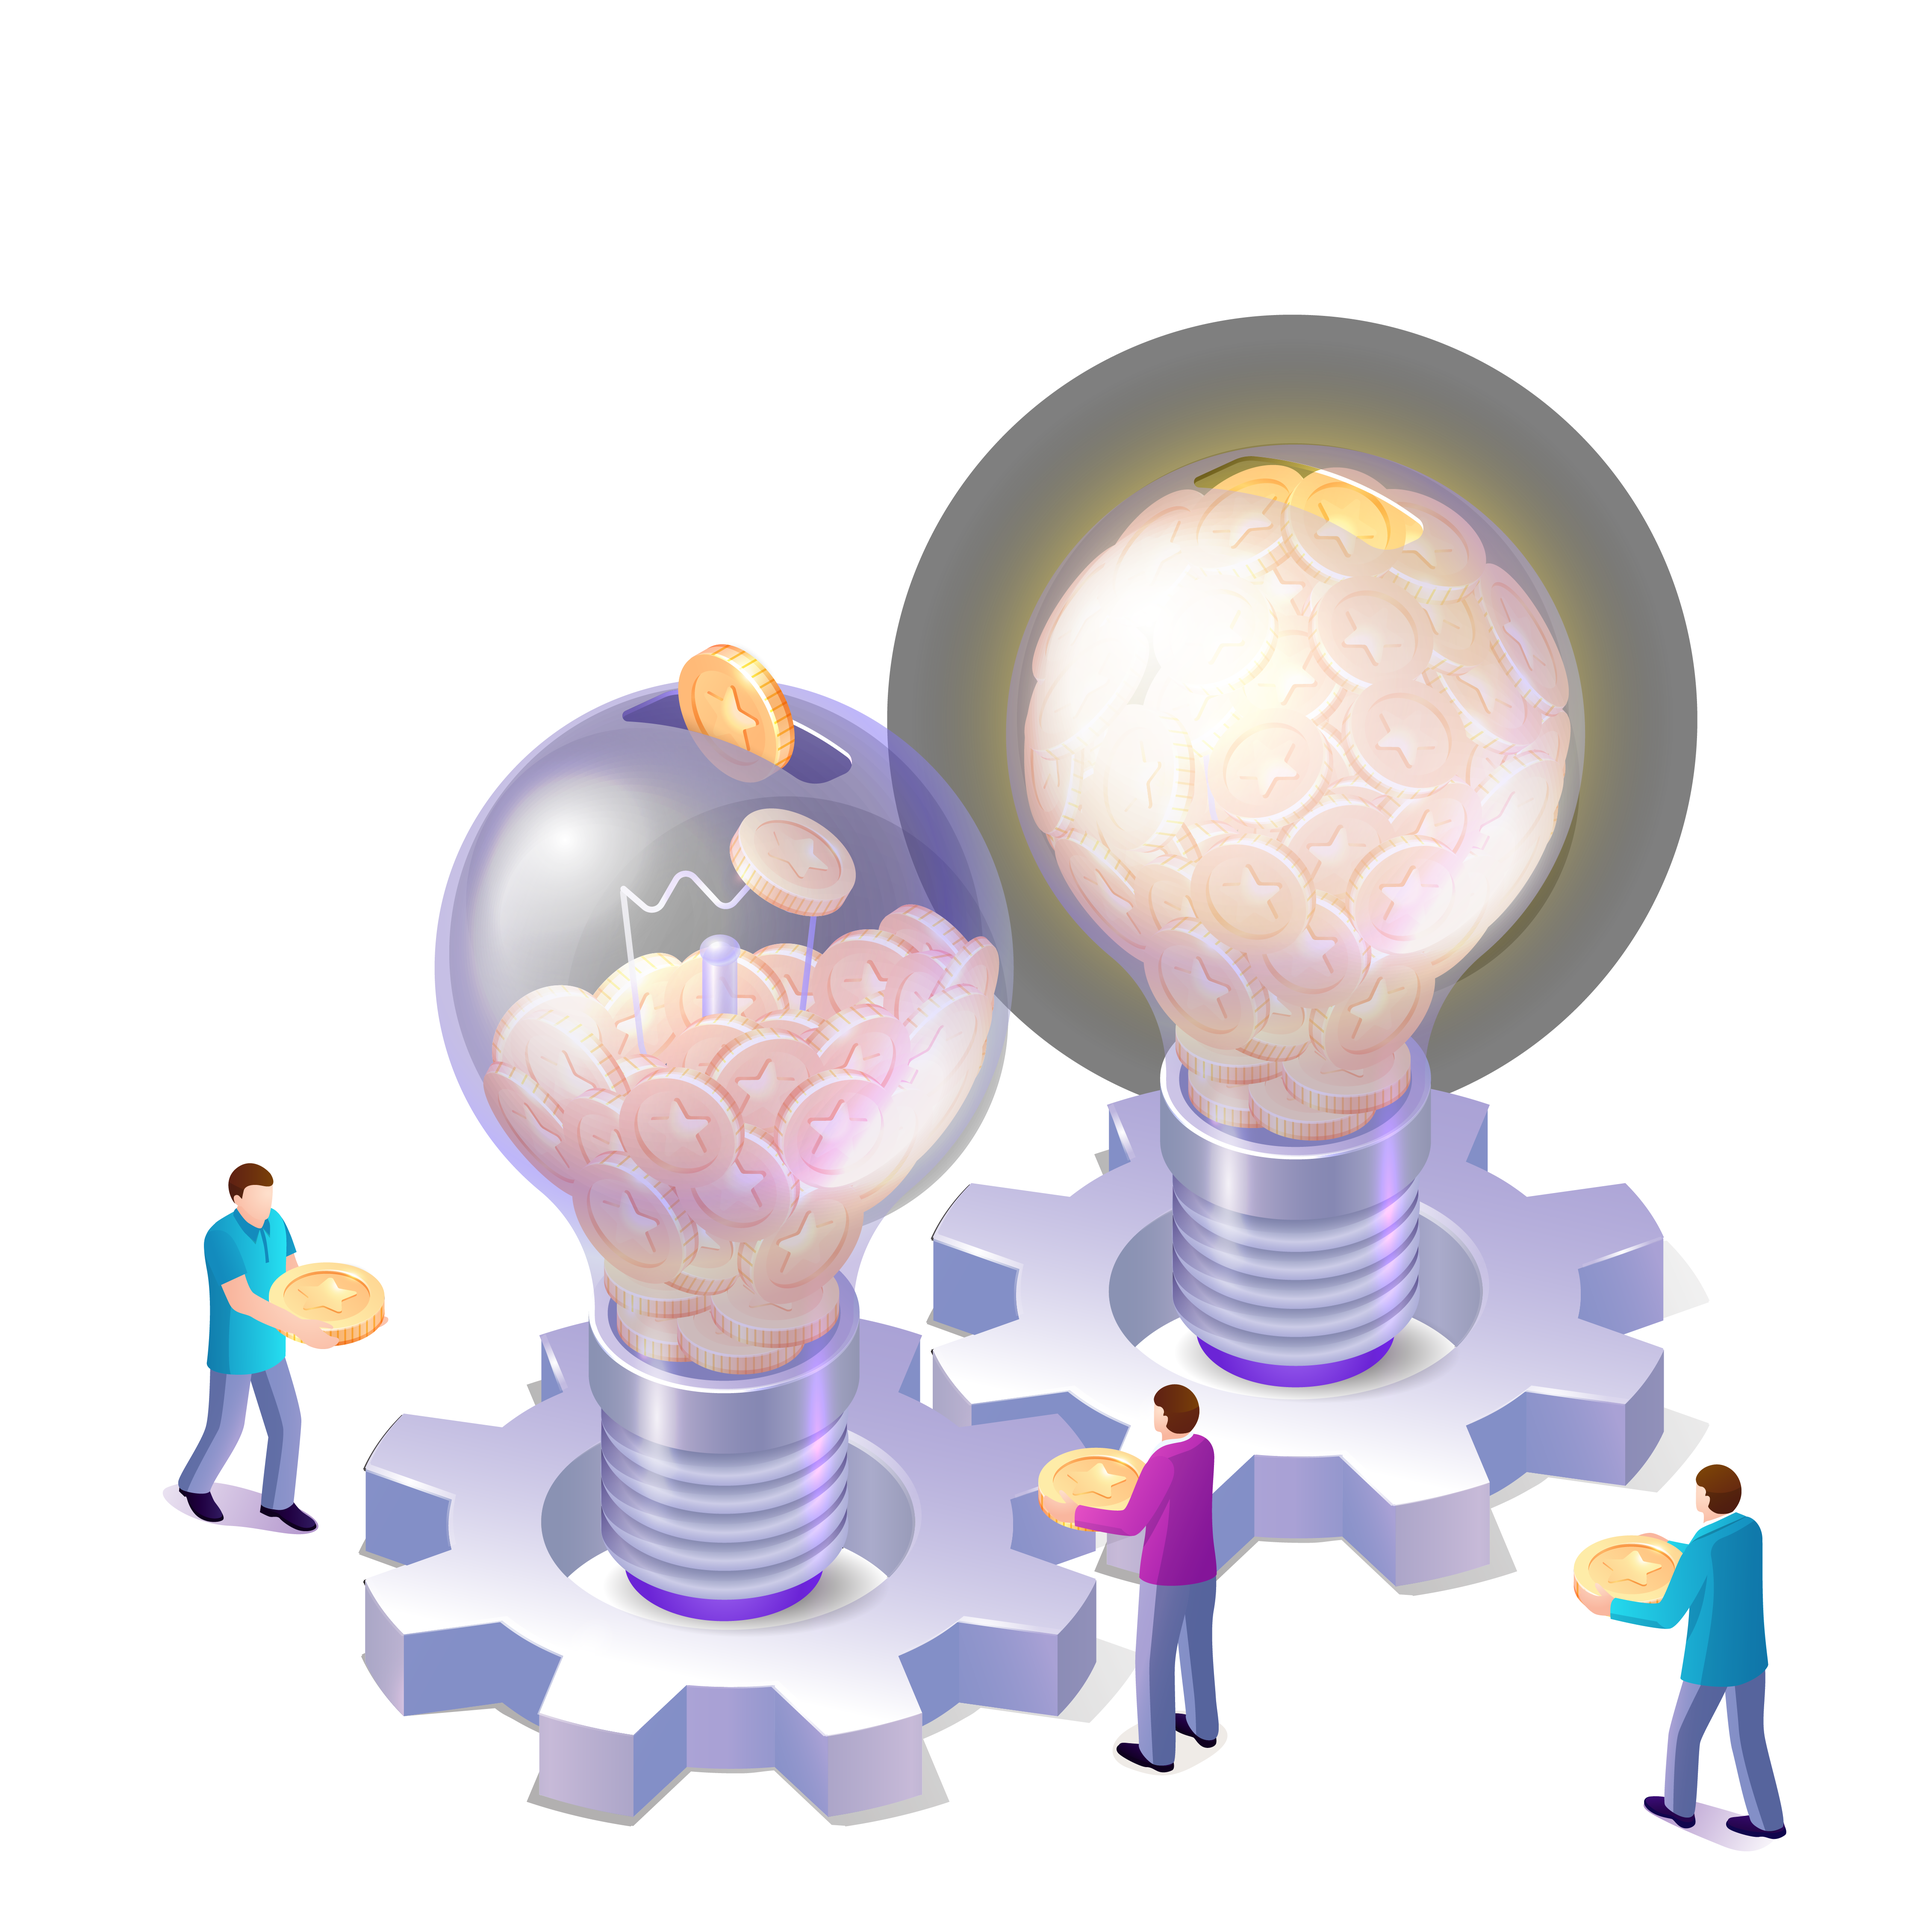
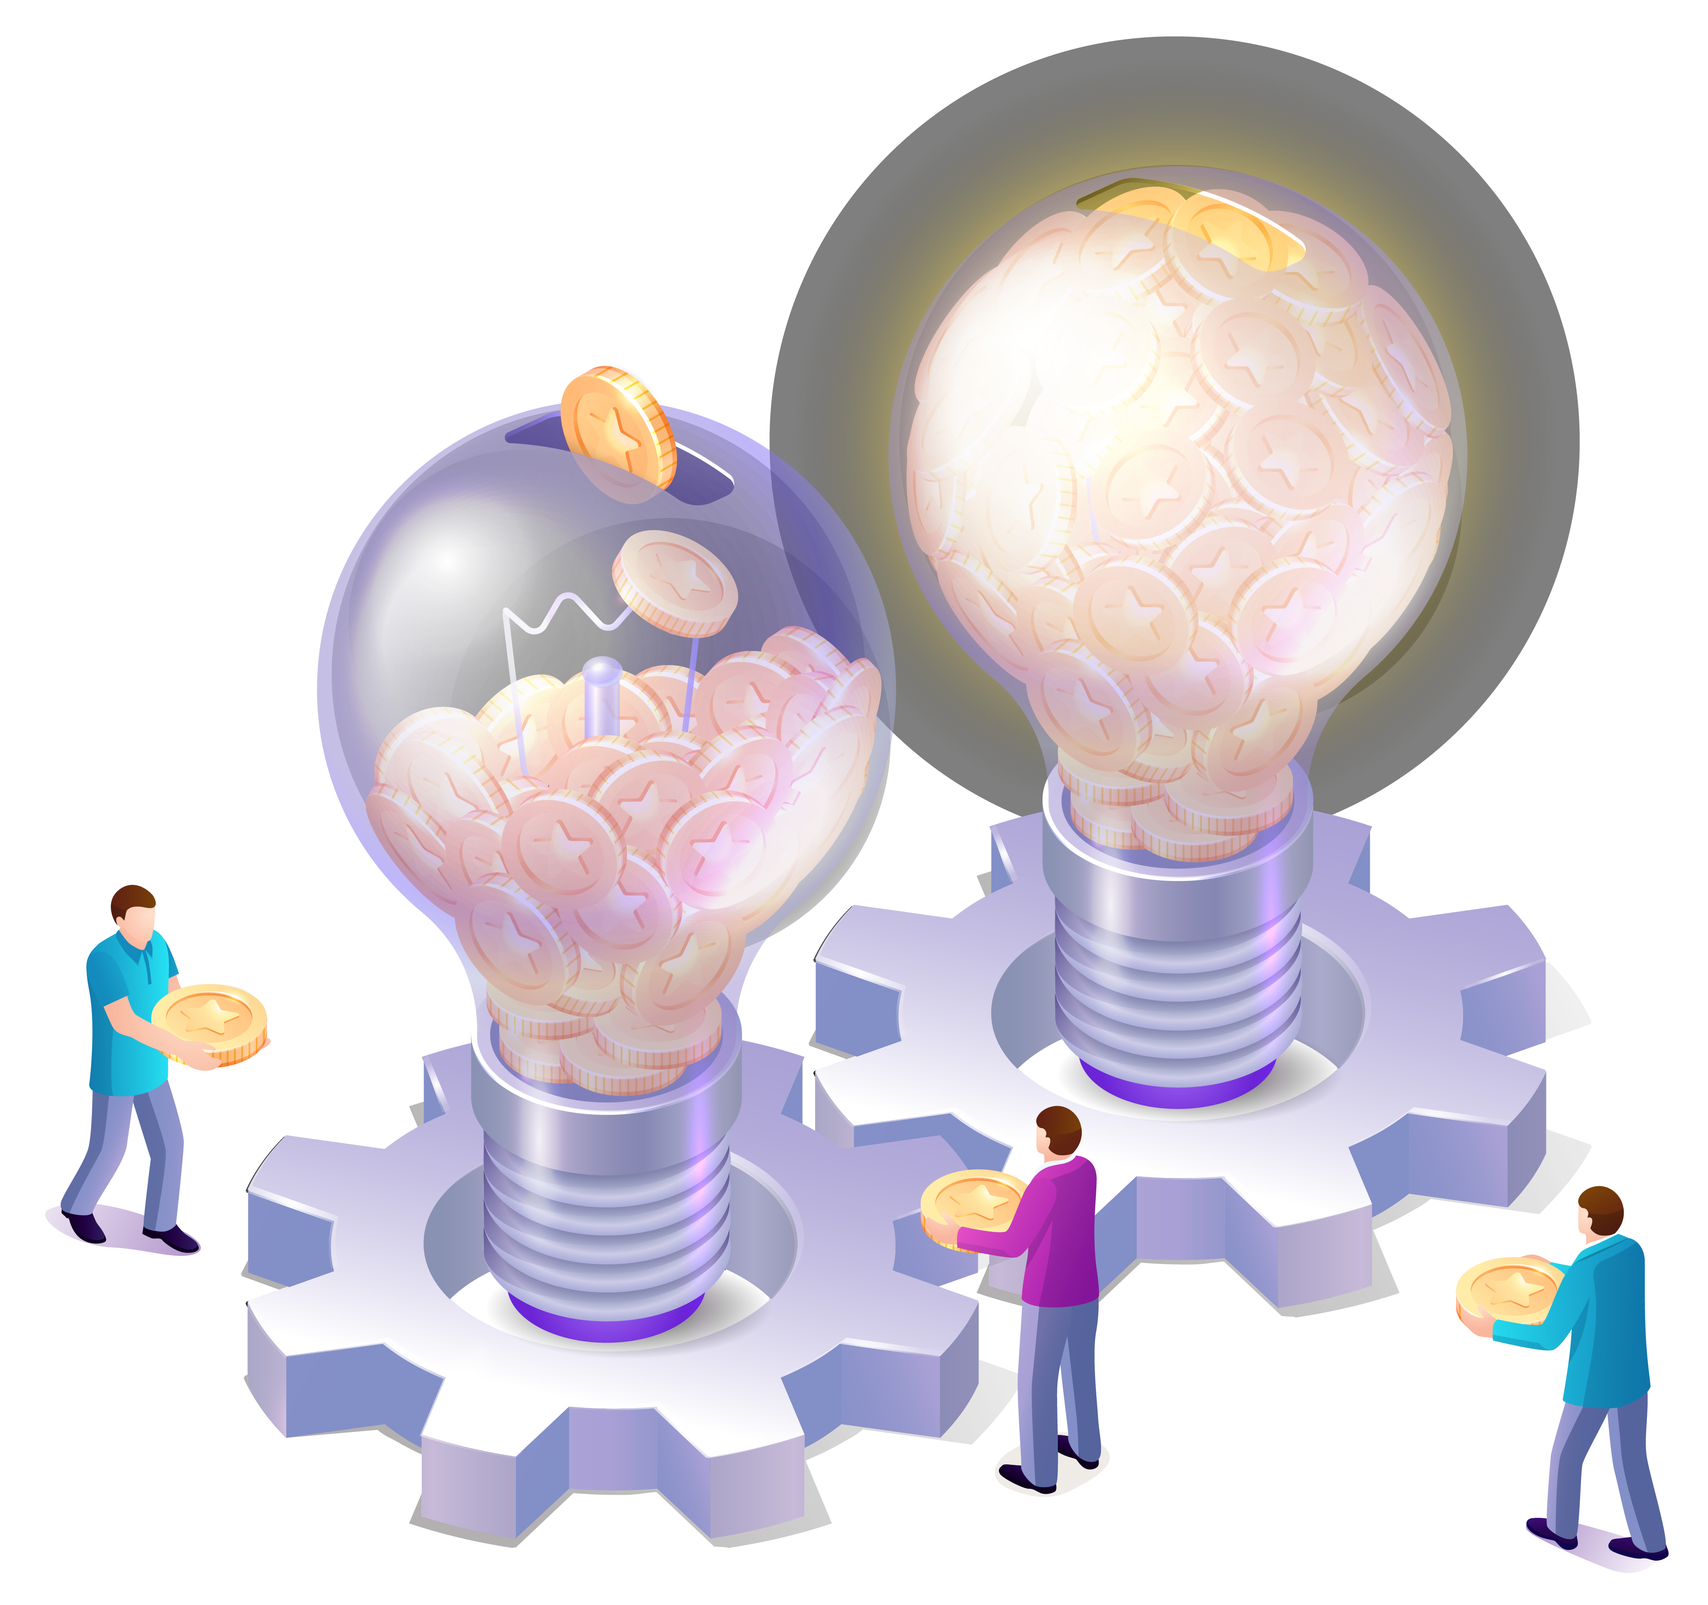
Added Illustration in Why  US Partial

diff --git a/src/partials/WhyUs.js b/src/partials/WhyUs.js
@@ -3,25 +3,19 @@ import React from "react";
 export default function WhyUs() {
   return (
     <>
-      <div className="s3">
+      <div className="s3 whyus">
         <div className="s3-container">
           <div className="s3-image-wrapper">
-            <div className="s3-image-container">
+            <div className="">
               <img
-                src="images/Graphic-Decentralized-Box.png"
-                loading="lazy"
-                data-w-id="16e7b7c0-73b3-38ef-b935-fa27dc948b0c"
-                sizes="(max-width: 479px) 90vw, (max-width: 991px) 72vw, (max-width: 1279px) 41vw, (max-width: 1439px) 42vw, 598px"
-                srcSet="
-            images/Graphic-Decentralized-Box-p-500.png   500w,
-            images/Graphic-Decentralized-Box-p-800.png   800w,
-            images/Graphic-Decentralized-Box-p-1080.png 1080w,
-            images/Graphic-Decentralized-Box.png        1117w
-          "
-                alt=""
+                src="assets/img/wu.png"
                 className="s3-box-image"
+                style={{
+                  width: "75%",
+                  margin:'auto'
+                }}
               />
-              <img
+              {/* <img
                 src="images/Graphic-Decentralized-Base.png"
                 loading="lazy"
                 data-w-id="2a136f4b-ce37-a8da-4149-6d5b14ea3029"
@@ -48,7 +42,7 @@ export default function WhyUs() {
           "
                 alt=""
                 className="s3-orbitals-image"
-              />
+              /> */}
             </div>
           </div>
           <div
